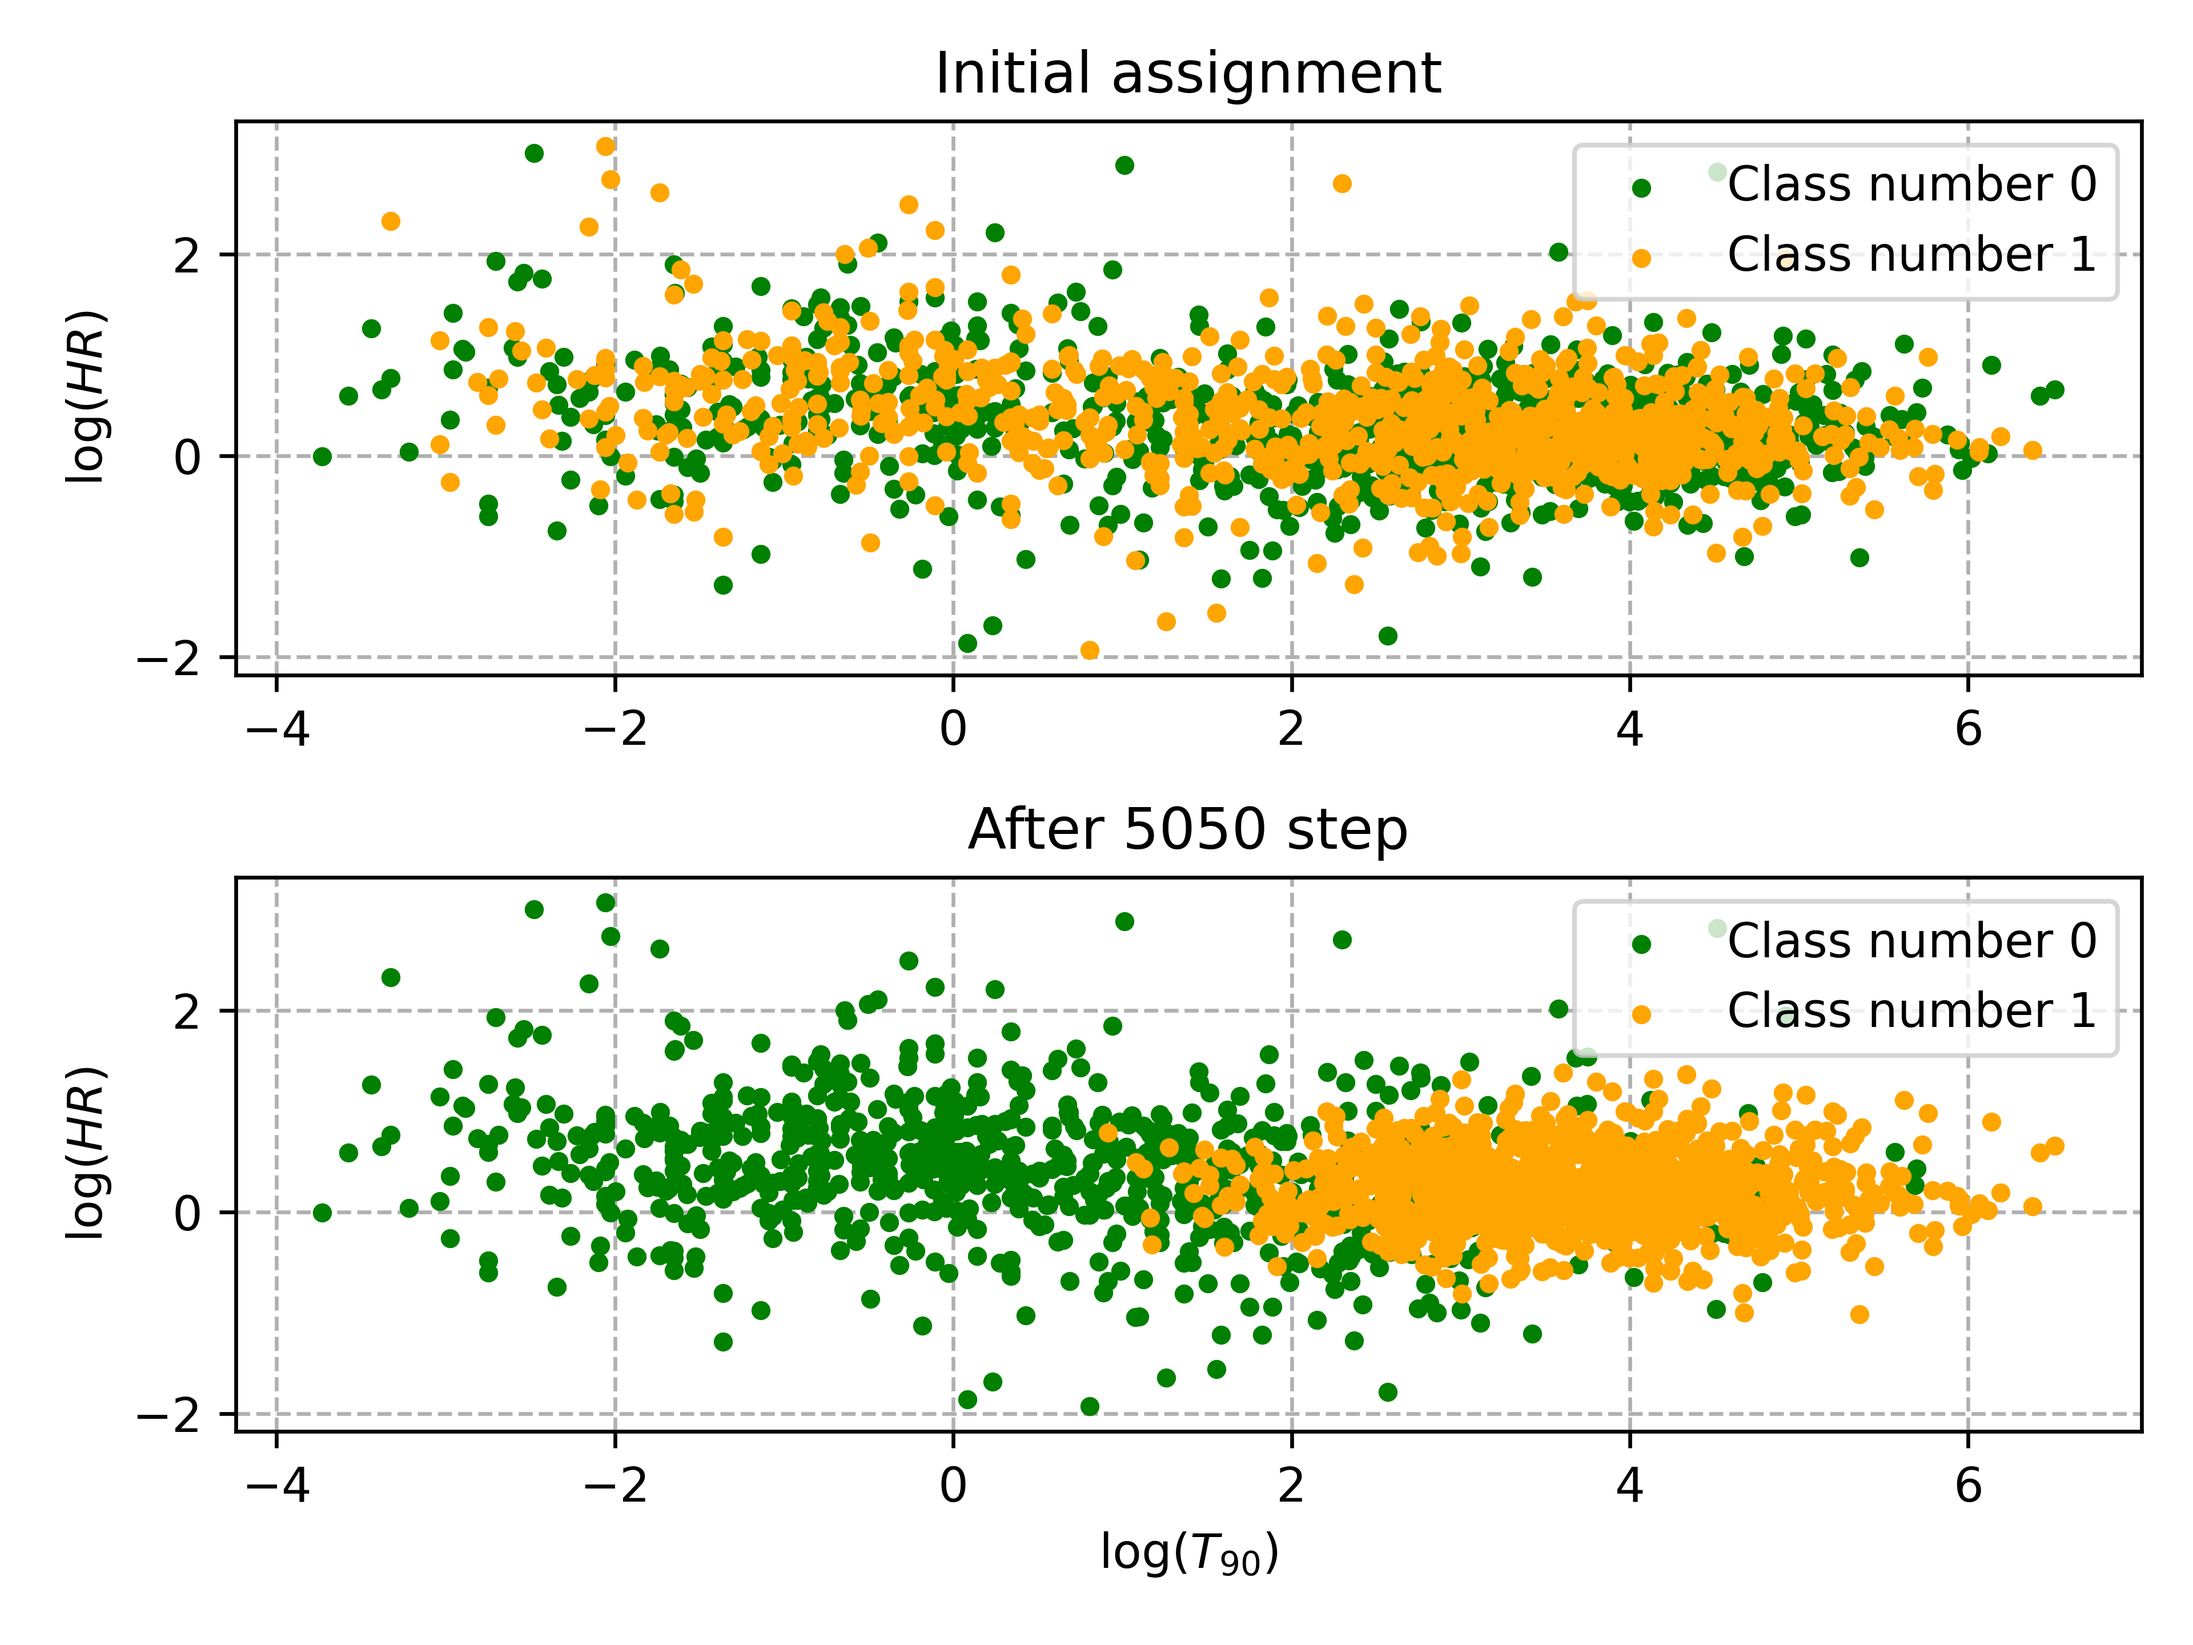
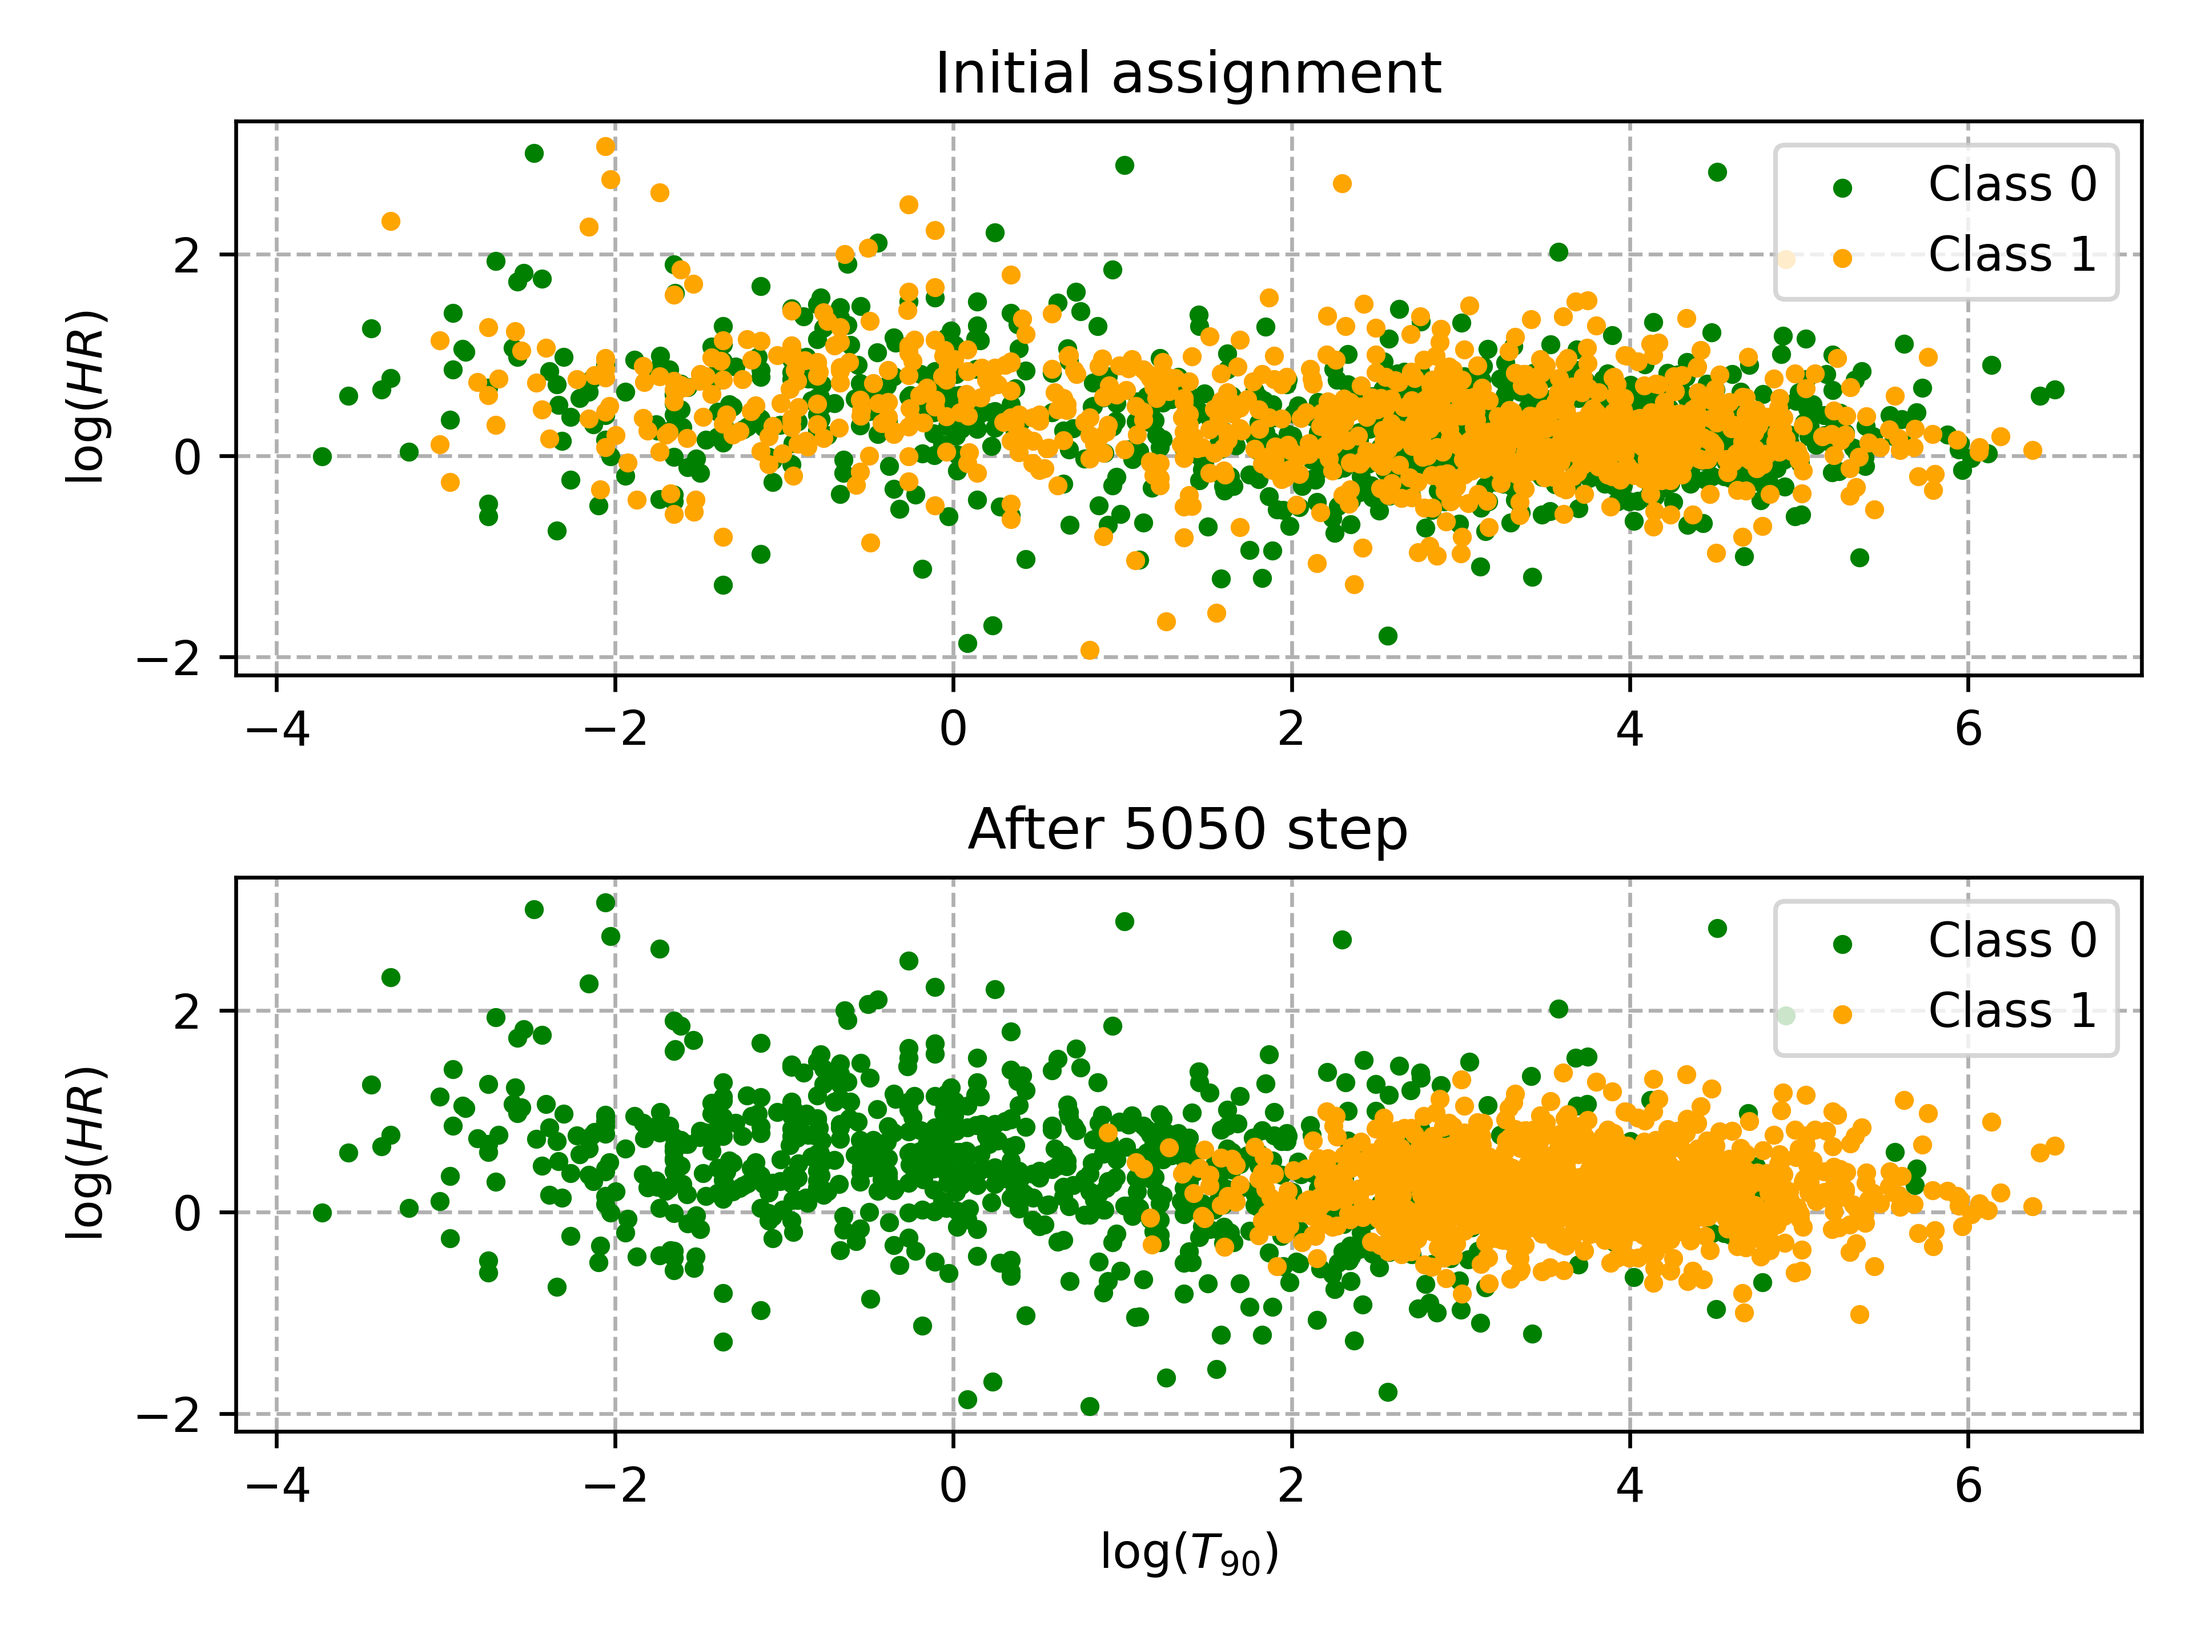
20/04: point 5 consistent name for classes

Changed region(s): [[0.7188, 0.0938, 0.9375, 0.1875], [0.7812, 0.5312, 0.9375, 0.6562], [0.7188, 0.5312, 0.75, 0.6562]]

diff --git a/GRB_class_5.py b/GRB_class_5.py
@@ -296,7 +296,7 @@ if __name__ == "__main__":
     ax = fig1.add_subplot(211)
     for k in sampler.state["cluster_id_"]:
         data_k = sampler.state["data_"][sampler.state["vec_z"] == k]
-        ax.scatter(data_k[:,0], data_k[:,1], marker = '.', color = cluster_color[k], label = "Class number "+str(k))
+        ax.scatter(data_k[:,0], data_k[:,1], marker = '.', color = cluster_color[k], label = "Class "+str(k))
     ax.set_title("Initial assignment")
     ax.set_ylabel("$\\log(HR)$")
     ax.grid(linestyle = 'dashed')
@@ -386,7 +386,7 @@ if __name__ == "__main__":
     ax1 = fig1.add_subplot(212, sharex=ax)
     for k in sampler.state["cluster_id_"]:
         data_k = sampler.state["data_"][vec_z == k]
-        ax1.scatter(data_k[:,0], data_k[:,1], marker = '.', color = cluster_color[k], label = "Class number "+str(k))
+        ax1.scatter(data_k[:,0], data_k[:,1], marker = '.', color = cluster_color[k], label = "Class "+str(k))
     ax1.set_title("After "+str(n_step)+" step")
     ax1.set_xlabel("$\\log(T_{90})$")
     ax1.set_ylabel("$\\log(HR)$")
